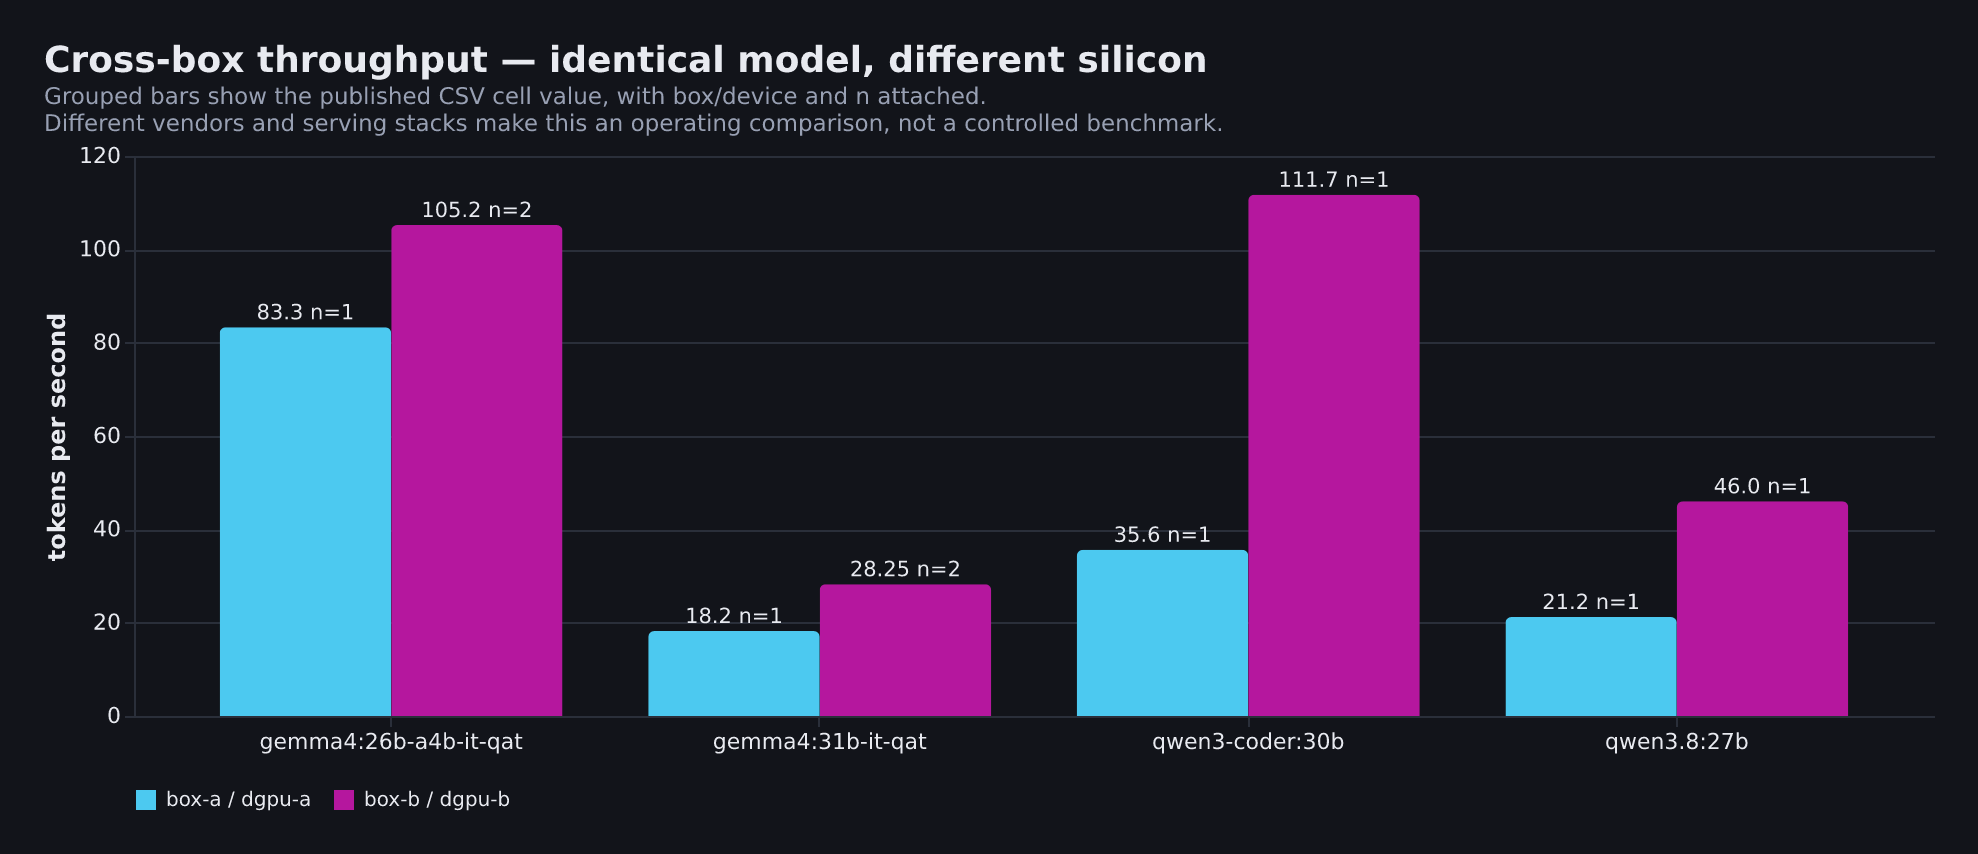
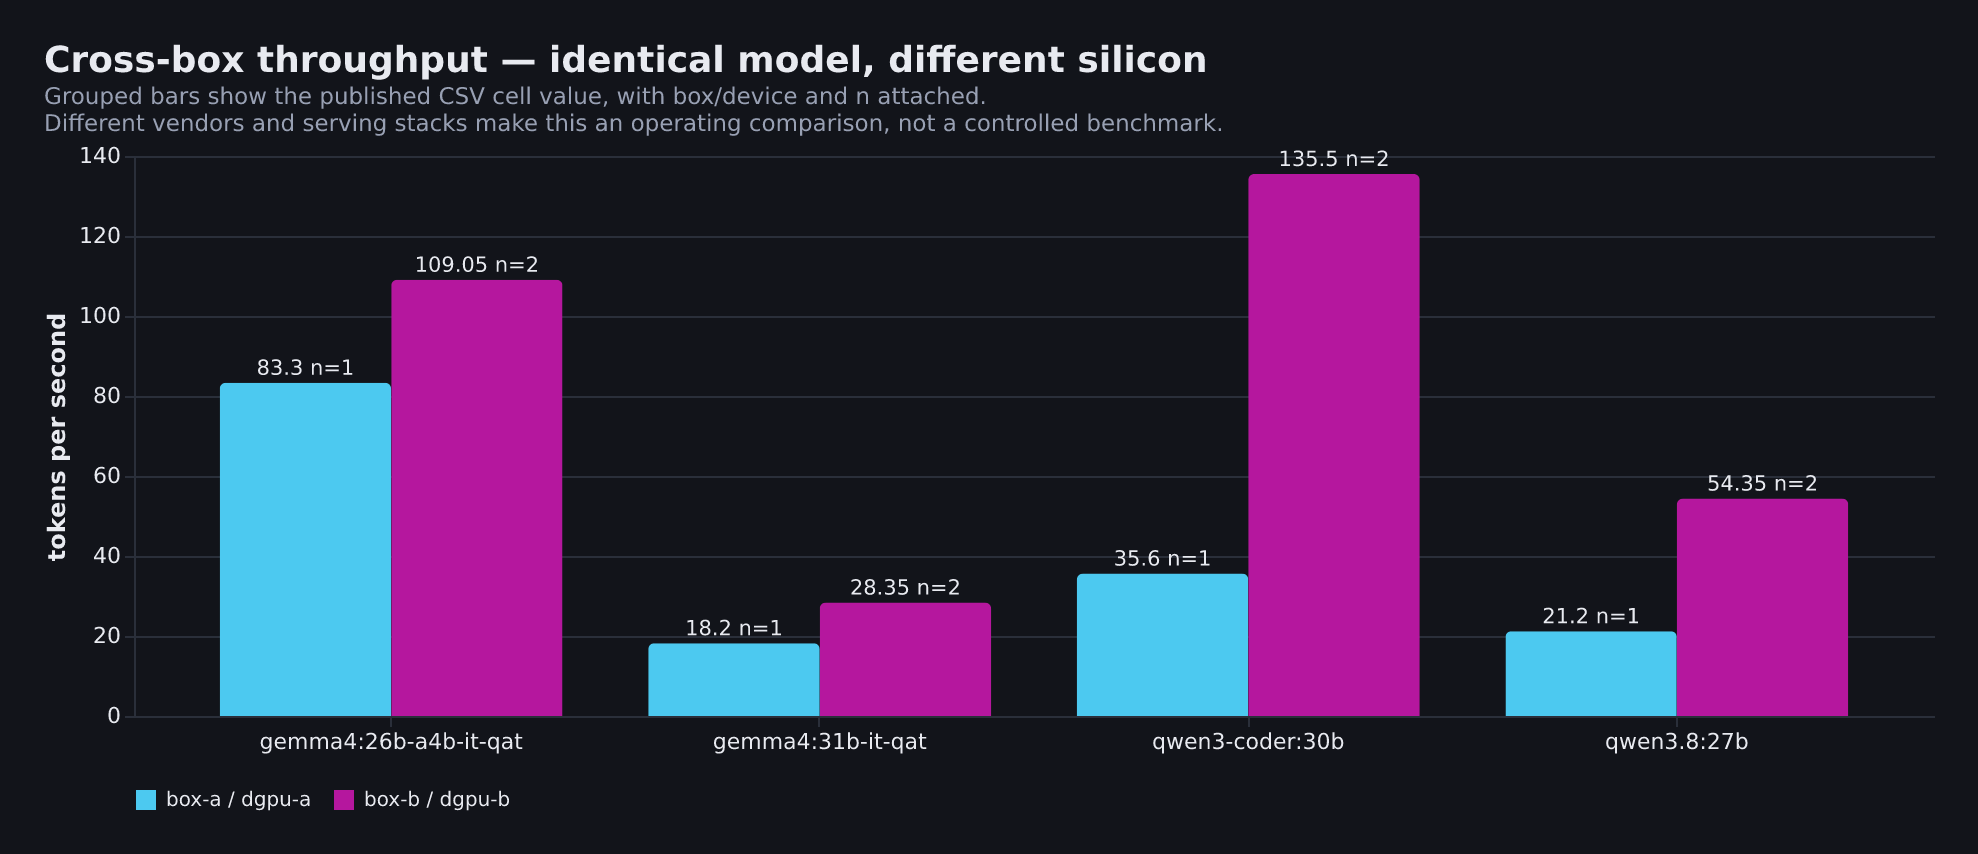
bench: measure all four device pairs in one sitting, and correct glimmer's device
The device-split chart showed two models because only two had both-device rows,
not because only two were tested. qwen3-coder:30b and qwen3.8:27b had dGPU
numbers and an old single-run A/B recorded in a routing config, but nothing in
the published record. Both are now measured on both GPUs.

muse-glimmer's two rows were labelled dgpu-b and were not: the glimmer-dflash
unit sets GGML_VK_VISIBLE_DEVICES=1, which llama.cpp enumerates as Vulkan1, the
Radeon 8060S iGPU - and target plus dflash draft at -ngl 999 -ngld 999 is about
36GB against the R9700's 32624 MiB, so it could not have run there. Its 2.56x
speculative-decoding win is an iGPU result. Corrected in the CSV and the chart.

The harness is published rather than described. The earlier gemma cells came
from an ad-hoc inline command that could not be re-run or extended, which is why
the two qwen models were missing in the first place. It validates against the
known baseline: gemma 31b reproduced at 28.35 vs 28.25 published and 12.0 vs
12.0. It unloads between devices, without which the second reading silently
reuses the first device.

The result splits by architecture, not size. Both 128-expert/8-used models land
at 1.63x from different vendors; both dense models sit near 2.3x. Expert counts
are read from GGUF metadata, not inferred from the model name.

The chart subtitle claimed T1 8/8 for every displayed cell. qwen3-coder is 6/8,
so that claim would have become false the moment it was shown.

diff --git a/bench/make_charts.py b/bench/make_charts.py
@@ -11,18 +11,18 @@ peak = [
     ("Ornith-1.0-35B-A3B",    199.9, "ornith",   "21 GB · Q4_K_M · MoE A3B · llama.cpp -ngl 24 · best of 4"),
     ("Ornith-1.0-35B",        115.0, "ornith",   "21 GB · Q4_K_M · MoE A3B · single run"),
     ("qwen3.6:35b-a3b",       114.43, "qwen",    "box-a · both-dgpu · Q4_K_M · n=1"),
-    ("qwen3-coder:30b",       111.7, "qwen",     "box-b · dgpu-b · quant unknown · n=1"),
-    ("gemma4:26b-a4b-it-qat", 105.2, "gemma",    "box-b · dgpu-b · q4_0-qat · n=2"),
+    ("qwen3-coder:30b",       135.5, "qwen",     "box-b · dgpu-b · quant unknown · n=2"),
+    ("gemma4:26b-a4b-it-qat", 109.05, "gemma",   "box-b · dgpu-b · q4_0-qat · n=2"),
     ("GLM-4.7-Flash",         105.0, "glm",      "18 GB · Q4_K_M · llama-server · best of 2"),
     ("GLM-4.7-Flash-GGUF",    105.0, "glm",      "box-a · both-dgpu · quant unknown · n=1"),
     ("Ornith-1.0-9B",          67.0, "ornith",   "5.6 GB · Q4_K_M · 9B dense · single run"),
     ("qwen3.8:27b-devicepinned", 56.4, "qwen",   "box-b · dgpu-b · device-pinned build · n=1"),
     ("gemma4:12b",             54.0, "gemma",    "7.6 GB · Q4_K_M · 11.9B dense · best of 3"),
-    ("qwen3.8:27b",            46.0, "qwen",     "box-b · dgpu-b · quant unknown · n=1"),
+    ("qwen3.8:27b",           54.35, "qwen",     "box-b · dgpu-b · quant unknown · n=2"),
     ("qwen3:14b",              42.5, "qwen",     "Q4_K_M · 14B · ollama · single run"),
     ("deepseek-r1:14b",        42.4, "deepseek", "9.0 GB · Q4_K_M · 14.8B · single run"),
-    ("muse-glimmer",           33.8, "qwythos",  "box-b · dgpu-b · llama-server spec-decode · n=3"),
-    ("gemma4:31b-it-qat",      28.25, "gemma",   "box-b · dgpu-b · q4_0-qat · n=2"),
+    ("muse-glimmer",           33.8, "qwythos",  "box-b · igpu · llama-server spec-decode · n=3"),
+    ("gemma4:31b-it-qat",     28.35, "gemma",    "box-b · dgpu-b · q4_0-qat · n=2"),
     ("Qwythos-9B",             28.0, "qwythos",  "9B · decode, short context · best of 2"),
     ("gemma4:26b-a4b-it-bf16", 13.0, "gemma",    "box-b · igpu · bf16 · n=1 · dumped"),
     ("gemma4:31b-it-q8_0",      6.6, "gemma",    "box-b · igpu · q8_0 · n=1 · dumped"),
@@ -180,13 +180,13 @@ panel3 = {
 # ---------------------------------------------------------------- new two-box panels
 p4 = [
     {"model": "gemma4:26b-a4b-it-qat", "side": "box-a / dgpu-a", "tps": 83.3, "label": "83.3  n=1"},
-    {"model": "gemma4:26b-a4b-it-qat", "side": "box-b / dgpu-b", "tps": 105.2, "label": "105.2  n=2"},
+    {"model": "gemma4:26b-a4b-it-qat", "side": "box-b / dgpu-b", "tps": 109.05, "label": "109.05  n=2"},
     {"model": "gemma4:31b-it-qat", "side": "box-a / dgpu-a", "tps": 18.2, "label": "18.2  n=1"},
-    {"model": "gemma4:31b-it-qat", "side": "box-b / dgpu-b", "tps": 28.25, "label": "28.25  n=2"},
+    {"model": "gemma4:31b-it-qat", "side": "box-b / dgpu-b", "tps": 28.35, "label": "28.35  n=2"},
     {"model": "qwen3-coder:30b", "side": "box-a / dgpu-a", "tps": 35.6, "label": "35.6  n=1"},
-    {"model": "qwen3-coder:30b", "side": "box-b / dgpu-b", "tps": 111.7, "label": "111.7  n=1"},
+    {"model": "qwen3-coder:30b", "side": "box-b / dgpu-b", "tps": 135.5, "label": "135.5  n=2"},
     {"model": "qwen3.8:27b", "side": "box-a / dgpu-a", "tps": 21.2, "label": "21.2  n=1"},
-    {"model": "qwen3.8:27b", "side": "box-b / dgpu-b", "tps": 46.0, "label": "46.0  n=1"},
+    {"model": "qwen3.8:27b", "side": "box-b / dgpu-b", "tps": 54.35, "label": "54.35  n=2"},
 ]
 panel4 = {
     "title": {"text": "Cross-box throughput — identical model, different silicon",
@@ -204,18 +204,23 @@ panel4 = {
     ],
 }
 p5 = [
-    {"model": "gemma4:26b-a4b-it-qat", "device": "dgpu-b", "tps": 105.2, "label": "105.2  n=2", "ratio": "1.6× dGPU / iGPU"},
-    {"model": "gemma4:26b-a4b-it-qat", "device": "igpu", "tps": 66.25, "label": "66.25  n=2", "ratio": ""},
-    {"model": "gemma4:31b-it-qat", "device": "dgpu-b", "tps": 28.25, "label": "28.25  n=2", "ratio": "2.4× dGPU / iGPU"},
+    {"model": "qwen3-coder:30b", "device": "dgpu-b", "tps": 135.5, "label": "135.5  n=2", "ratio": "1.63×"},
+    {"model": "qwen3-coder:30b", "device": "igpu", "tps": 83.0, "label": "83.0  n=2", "ratio": ""},
+    {"model": "gemma4:26b-a4b-it-qat", "device": "dgpu-b", "tps": 109.05, "label": "109.05  n=2", "ratio": "1.63×"},
+    {"model": "gemma4:26b-a4b-it-qat", "device": "igpu", "tps": 67.1, "label": "67.1  n=2", "ratio": ""},
+    {"model": "qwen3.8:27b", "device": "dgpu-b", "tps": 54.35, "label": "54.35  n=2", "ratio": "2.30×"},
+    {"model": "qwen3.8:27b", "device": "igpu", "tps": 23.6, "label": "23.6  n=2", "ratio": ""},
+    {"model": "gemma4:31b-it-qat", "device": "dgpu-b", "tps": 28.35, "label": "28.35  n=2", "ratio": "2.36×"},
     {"model": "gemma4:31b-it-qat", "device": "igpu", "tps": 12.0, "label": "12.0  n=2", "ratio": ""},
 ]
 panel5 = {
     "title": {"text": "Box-b device split — dGPU vs iGPU",
-              "subtitle": ["Cell means from two reps per device; ratio is dGPU-b / iGPU.",
-                           "Functional-task quality was T1 8/8 for all four displayed cells."],
+              "subtitle": ["Bold multiplier is dGPU / iGPU. Two reps per device, one harness, one sitting (2026-08-22):",
+                           "same prompt, num_ctx pinned on BOTH devices, model unloaded between them.",
+                           "Quality is a separate measurement: T1 8/8 except qwen3-coder:30b at 6/8."],
               "anchor": "start", "color": FG, "fontSize": 18, "subtitleColor": MUTED, "subtitleFontSize": 11.5},
-    "width": 700, "height": 270, "data": {"values": p5},
-    "encoding": {"x": {"field": "model", "type": "nominal", "title": None, "axis": {"labelAngle": 0, "labelLimit": 300, "labelFontSize": 11}}, "xOffset": {"field": "device"}},
+    "width": 900, "height": 290, "data": {"values": p5},
+    "encoding": {"x": {"field": "model", "type": "nominal", "title": None, "sort": {"field": "tps", "op": "max", "order": "descending"}, "axis": {"labelAngle": 0, "labelLimit": 300, "labelFontSize": 11}}, "xOffset": {"field": "device", "sort": ["dgpu-b", "igpu"]}},
     "layer": [
         {"mark": {"type": "bar", "cornerRadiusEnd": 3},
          "encoding": {"y": {"field": "tps", "type": "quantitative", "title": "tokens per second", "scale": {"zero": True}},

diff --git a/bench/device_split_bench.py b/bench/device_split_bench.py
@@ -1,0 +1,85 @@
+#!/usr/bin/env python3
+"""jb-device-split-bench — measure decode tok/s for a model on BOTH GPUs of this box.
+
+Why it exists: the 2026-08-22 gemma device-split cells were produced by an ad-hoc inline
+command, so the numbers could not be reproduced or extended to other models. This is that
+measurement, written down.
+
+Method. ollama honours options.main_gpu PER REQUEST (verified 2026-08-21), so the same model
+tag is driven onto device 0 (R9700 discrete) and device 1 (Strix Halo iGPU) with everything
+else held constant. num_ctx is pinned for BOTH devices, not just the discrete one: KV cache is
+a placement constraint, and letting it differ would make the comparison measure context size
+as well as device. The model is unloaded between devices, otherwise the second request reuses
+the resident copy on the FIRST device and silently reports that device twice — the failure
+this whole benchmark exists to detect.
+
+Reported figure is decode (eval) rate only: eval_count / eval_duration. Prompt-processing is
+excluded because it is a different bottleneck and mixing them hides the decode difference.
+"""
+import argparse, json, subprocess, sys, time, urllib.request
+
+API = "http://127.0.0.1:11434/api"
+DEVICES = {0: "dgpu-b", 1: "igpu"}
+PROMPT = ("Explain, in careful detail, how a write-ahead log keeps a database consistent "
+          "across an unclean shutdown. Cover the ordering guarantees it relies on.")
+
+
+def post(path, body, timeout):
+    req = urllib.request.Request(f"{API}/{path}",
+                                 data=json.dumps(body).encode(),
+                                 headers={"Content-Type": "application/json"})
+    with urllib.request.urlopen(req, timeout=timeout) as r:
+        return json.loads(r.read())
+
+
+def unload(model):
+    subprocess.run(["ollama", "stop", model], capture_output=True)
+    time.sleep(3)
+
+
+def one_rep(model, device, num_ctx, num_predict, timeout):
+    r = post("generate", {
+        "model": model, "prompt": PROMPT, "stream": False,
+        "options": {"main_gpu": device, "num_ctx": num_ctx,
+                    "num_predict": num_predict, "temperature": 0},
+    }, timeout)
+    ec, ed = r.get("eval_count", 0), r.get("eval_duration", 0)
+    if not ec or not ed:
+        return None
+    return round(ec / (ed / 1e9), 1)
+
+
+def main():
+    ap = argparse.ArgumentParser()
+    ap.add_argument("models", nargs="+")
+    ap.add_argument("--reps", type=int, default=2)
+    ap.add_argument("--num-ctx", type=int, default=32768)
+    ap.add_argument("--num-predict", type=int, default=200)
+    ap.add_argument("--timeout", type=int, default=900)
+    a = ap.parse_args()
+
+    out = {}
+    for model in a.models:
+        out[model] = {}
+        for dev, label in DEVICES.items():
+            unload(model)
+            # Warm-up is DISCARDED: the first request pays model load from disk, which is not
+            # decode rate. Including it would understate whichever device loaded cold.
+            if one_rep(model, dev, a.num_ctx, a.num_predict, a.timeout) is None:
+                print(f"{model}@{label}: WARMUP FAILED", flush=True); out[model][label] = None; continue
+            reps = [one_rep(model, dev, a.num_ctx, a.num_predict, a.timeout) for _ in range(a.reps)]
+            if any(r is None for r in reps):
+                print(f"{model}@{label}: REP FAILED {reps}", flush=True); out[model][label] = None; continue
+            mean = round(sum(reps) / len(reps), 2)
+            out[model][label] = {"reps": reps, "mean": mean}
+            print(f"{model}@{label}: decode {reps} tok/s | mean {mean}", flush=True)
+        unload(model)
+        c = out[model]
+        if c.get("dgpu-b") and c.get("igpu"):
+            print(f"{model}: RATIO dGPU/iGPU = "
+                  f"{round(c['dgpu-b']['mean'] / c['igpu']['mean'], 2)}x", flush=True)
+    print("JSON " + json.dumps(out), flush=True)
+
+
+if __name__ == "__main__":
+    sys.exit(main())

diff --git a/README.md b/README.md
@@ -104,10 +104,17 @@ The bars do not turn differing stacks into a controlled benchmark.
 
 ![Cross-box throughput](bench/04_cross_box.png)
 
-**Box-b device split.** The paired models show the dGPU-to-iGPU ratio from their two-rep cell means.
-Each bar states its sample size.
+**Box-b device split.** Four models, each measured on both of Box B's GPUs in one sitting by the same
+harness — same prompt, context pinned on both devices, model unloaded in between so the second
+reading cannot silently reuse the first device. Each bar states its sample size.
 
 ![Box-b device split](bench/05_device_split.png)
+
+`bench/device_split_bench.py` is the harness that produced those eight cells, so the comparison can be
+re-run rather than taken on trust. It drives one model onto each GPU through `options.main_gpu`,
+discards a warm-up so model-load time is not counted as decode rate, and **unloads between devices** —
+without that, the second request quietly reuses the copy already resident on the first device and the
+run reports that device twice, which is the exact failure the benchmark exists to detect.
 
 `bench/make_charts.py` regenerates all five images from the CSV, and **fails closed** if the two disagree:
 exit 1 on divergence, exit 2 when the CSV is absent — unverifiable is not the same as clean.
@@ -146,11 +153,31 @@ Server Edition headless setup allows for the maximum amount of resources can be 
 AMD/Vulkan), memory architecture (discrete VRAM vs a unified pool), and serving stack. A row that is
 faster on Box B is not evidence that AMD beats NVIDIA — it is evidence that *this model, at this
 quantisation, on this stack* ran at that rate. The value of publishing both is the **shape**: which
-models tolerate an iGPU, where the dGPU/iGPU gap actually lands (1.6× for a 26B MoE, 2.4× for a 31B
-dense), and which quantisations are worth keeping. Read the `device` and `serving_stack` columns
-before comparing any two rows.
+models tolerate an iGPU, where the dGPU/iGPU gap actually lands, and which quantisations are worth
+keeping. Read the `device` and `serving_stack` columns before comparing any two rows.
 
-**The iGPU is the interesting result.** A 26B MoE at **66 tok/s on integrated graphics** — using a
+**The gap splits by architecture, not by size.** Across the four models measured on both devices,
+the ratio lands in two tight groups — and they are not the groups you would guess from parameter
+count:
+
+| model | params | experts (GGUF metadata) | dGPU / iGPU |
+|---|---|---|---|
+| `qwen3-coder:30b` | 30.5B | 128, 8 used | **1.63×** |
+| `gemma4:26b-a4b-it-qat` | 25.2B | 128, 8 used | **1.63×** |
+| `qwen3.8:27b` | 27.3B | none — dense | **2.30×** |
+| `gemma4:31b-it-qat` | 30.7B | none — dense | **2.36×** |
+
+The expert counts are read from each model's GGUF metadata, not inferred from its name. The two
+sparse models carry the *same* configuration — 128 experts, 8 used — from different vendors, and
+land on the same ratio to two decimal places; both dense models sit near 2.3×.
+
+The likely mechanism is that a sparse model does less arithmetic per token, so it is less punished
+by the iGPU's weaker compute, while both architectures pay the same memory-bandwidth penalty — but
+that is the explanation the numbers *suggest*, not something this benchmark isolates. Two models
+per group is thin evidence for a rule. What it is good enough for is a routing default: **if a job
+has to run on the iGPU, prefer the sparse model.**
+
+**The iGPU is the interesting result.** A 26B MoE at **67 tok/s on integrated graphics** — using a
 slice of the same LPDDR5 the CPU is using — is the row most likely to change what someone buys, because
 it needs no discrete card at all.
 
